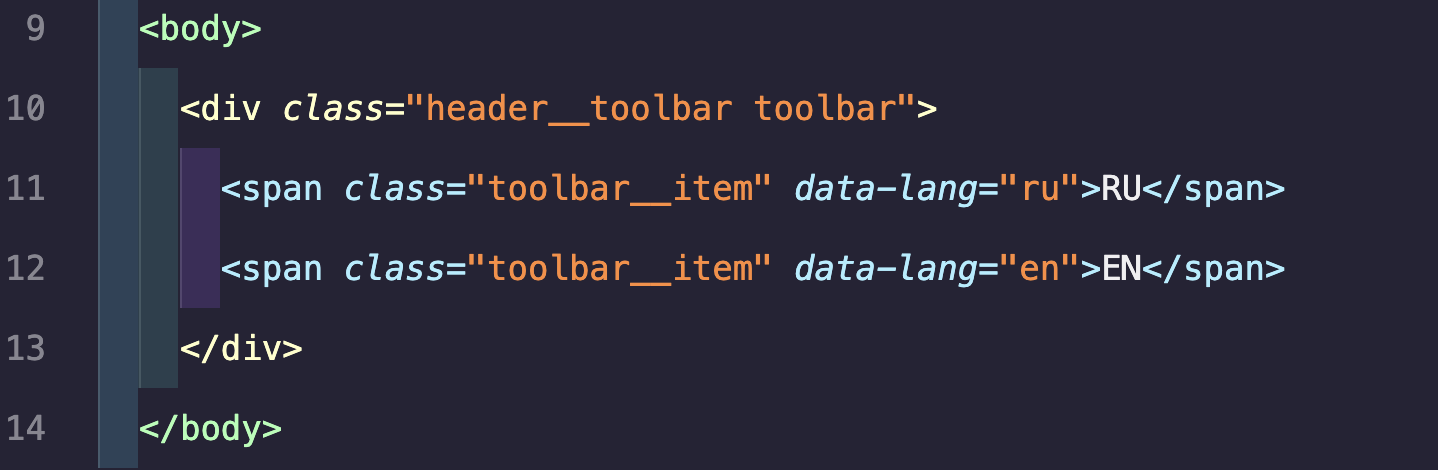
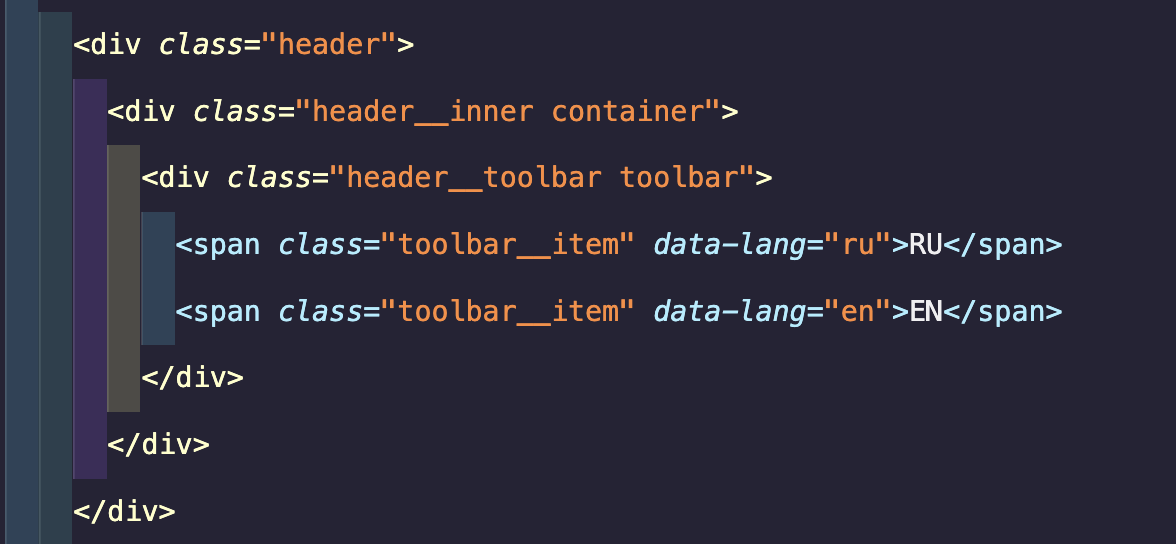
Изменение изображений на странице

Changed region(s): [[0.0, 0.0, 0.9184, 1.0]]

diff --git a/public/about.html b/public/about.html
@@ -1,0 +1,21 @@
+<!DOCTYPE html>
+<html lang="en">
+
+<head>
+    <meta charset="UTF-8" />
+    <meta name="viewport" content="width=device-width, initial-scale=1.0" />
+    <title>Document</title>
+</head>
+
+<body>
+    <div class="header">
+        <div class="header__inner container">
+            <div class="header__toolbar toolbar">
+                <span class="toolbar__item" data-lang="ru">RU</span>
+                <span class="toolbar__item" data-lang="en">EN</span>
+            </div>
+        </div>
+    </div>
+</body>
+
+</html>

diff --git a/src/html/about.html b/src/html/about.html
@@ -1,0 +1,18 @@
+<!DOCTYPE html>
+<html lang="en">
+  <head>
+    <meta charset="UTF-8" />
+    <meta name="viewport" content="width=device-width, initial-scale=1.0" />
+    <title>Document</title>
+  </head>
+  <body>
+    <div class="header">
+      <div class="header__inner container">
+        <div class="header__toolbar toolbar">
+          <span class="toolbar__item" data-lang="ru">RU</span>
+          <span class="toolbar__item" data-lang="en">EN</span>
+        </div>
+      </div>
+    </div>
+  </body>
+</html>
